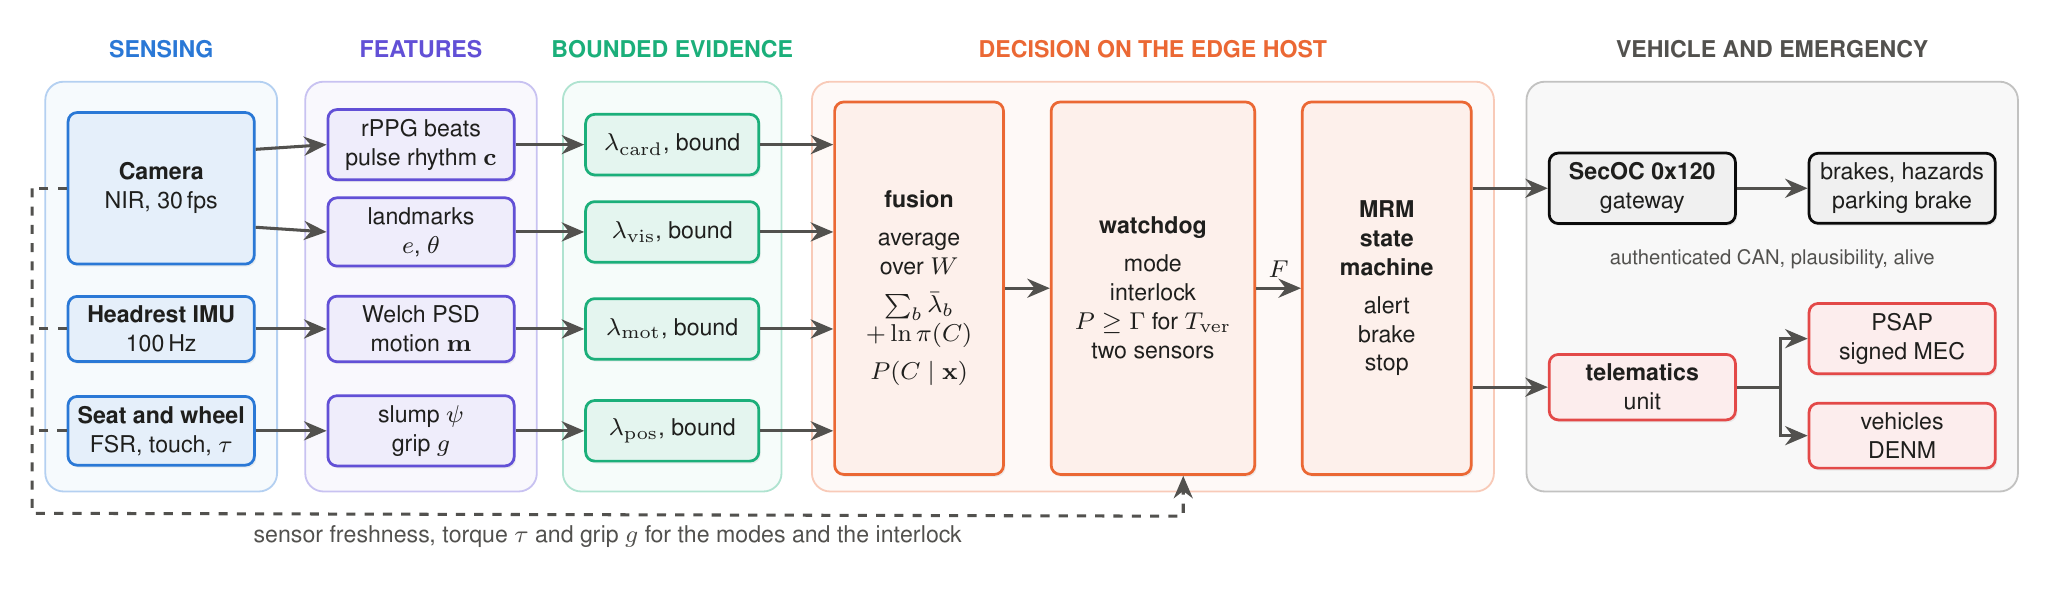
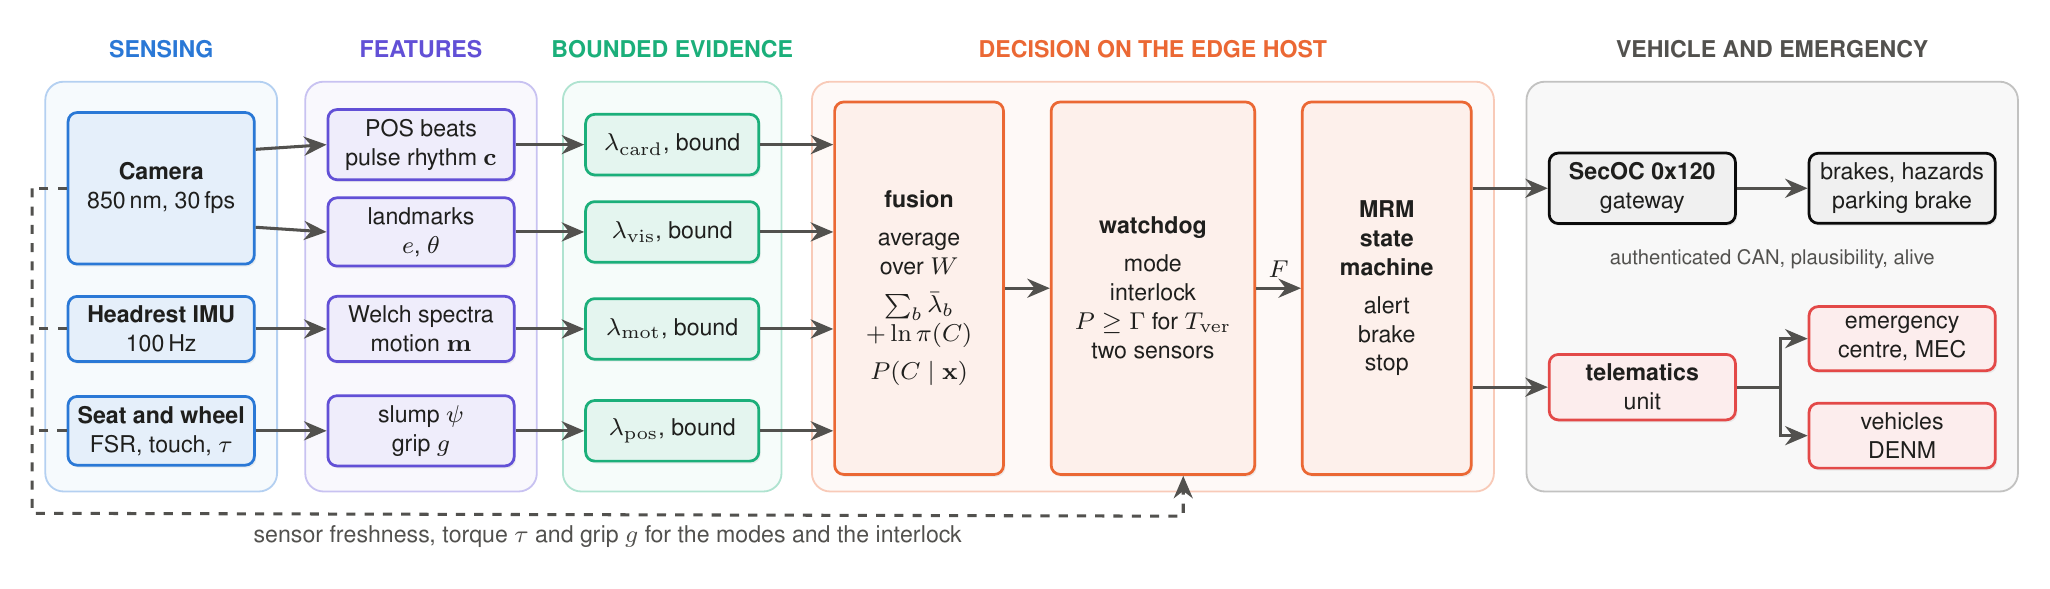
Add files via upload

diff --git a/2_System_Architecture/figures/architecture.tex b/2_System_Architecture/figures/architecture.tex
@@ -33,12 +33,12 @@
   stage/.style={font=\footnotesize\bfseries, anchor=south},
   ]
   % ---------------------------------------------------------------- blocks (as in the paper)
-  \node[sen, minimum height=1.75cm] (cam) at (0,3.0) {\textbf{Camera}\\NIR, 30\,fps};
+  \node[sen, minimum height=1.75cm] (cam) at (0,3.0) {\textbf{Camera}\\850\,nm, 30\,fps};
   \node[sen] (imu) at (0,1.55) {\textbf{Headrest IMU}\\100\,Hz};
   \node[sen] (seat) at (0,0.5) {\textbf{Seat and wheel}\\FSR, touch, $\tau$};
-  \node[feat] (fc) at (3.0,3.45) {rPPG beats\\pulse rhythm $\mathbf{c}$};
+  \node[feat] (fc) at (3.0,3.45) {POS beats\\pulse rhythm $\mathbf{c}$};
   \node[feat] (fv) at (3.0,2.55) {landmarks\\$e$, $\theta$};
-  \node[feat] (fm) at (3.0,1.55) {Welch PSD\\motion $\mathbf{m}$};
+  \node[feat] (fm) at (3.0,1.55) {Welch spectra\\motion $\mathbf{m}$};
   \node[feat] (fp) at (3.0,0.5) {slump $\psi$\\grip $g$};
   \node[evid] (bc) at (5.9,3.45) {$\lambda_{\mathrm{card}}$, bound};
   \node[evid] (bv) at (5.9,2.55) {$\lambda_{\mathrm{vis}}$, bound};
@@ -53,7 +53,7 @@
   \node[veh] (gw) at (17.1,3.0) {\textbf{SecOC 0x120}\\gateway};
   \node[veh] (act) at (20.1,3.0) {brakes, hazards\\parking brake};
   \node[em] (tel) at (17.1,0.95) {\textbf{telematics}\\unit};
-  \node[em] (psap) at (20.1,1.45) {PSAP\\signed MEC};
+  \node[em] (psap) at (20.1,1.45) {emergency\\centre, MEC};
   \node[em] (v2x) at (20.1,0.45) {vehicles\\DENM};
 
   % ---------------------------------------------------------------- arrows (as in the paper)
